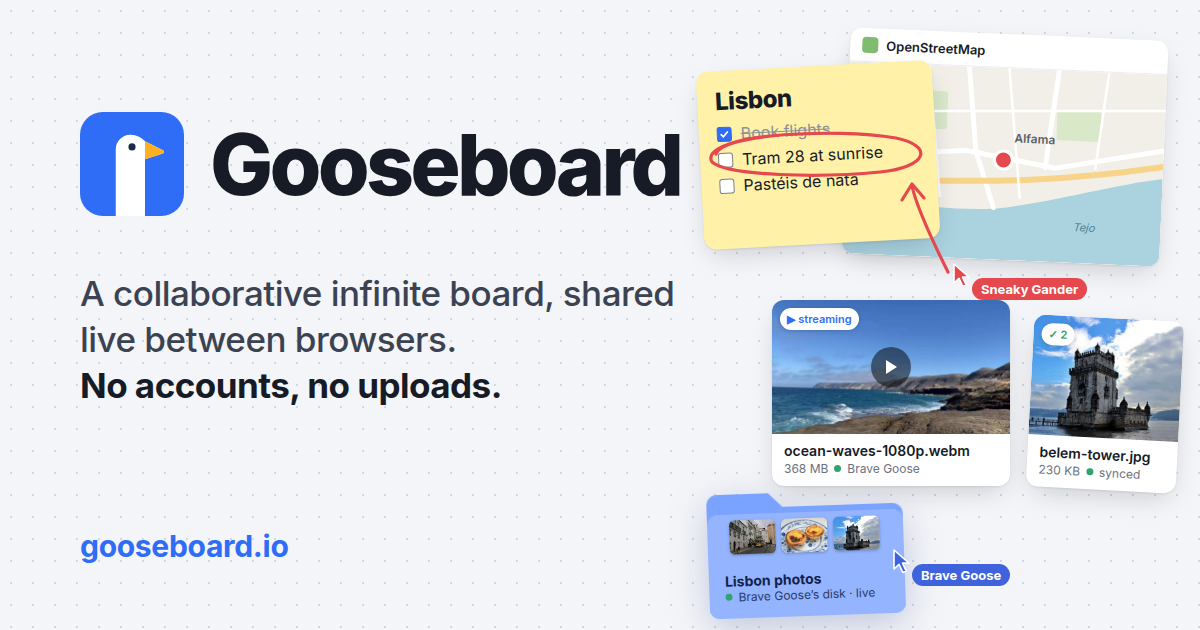
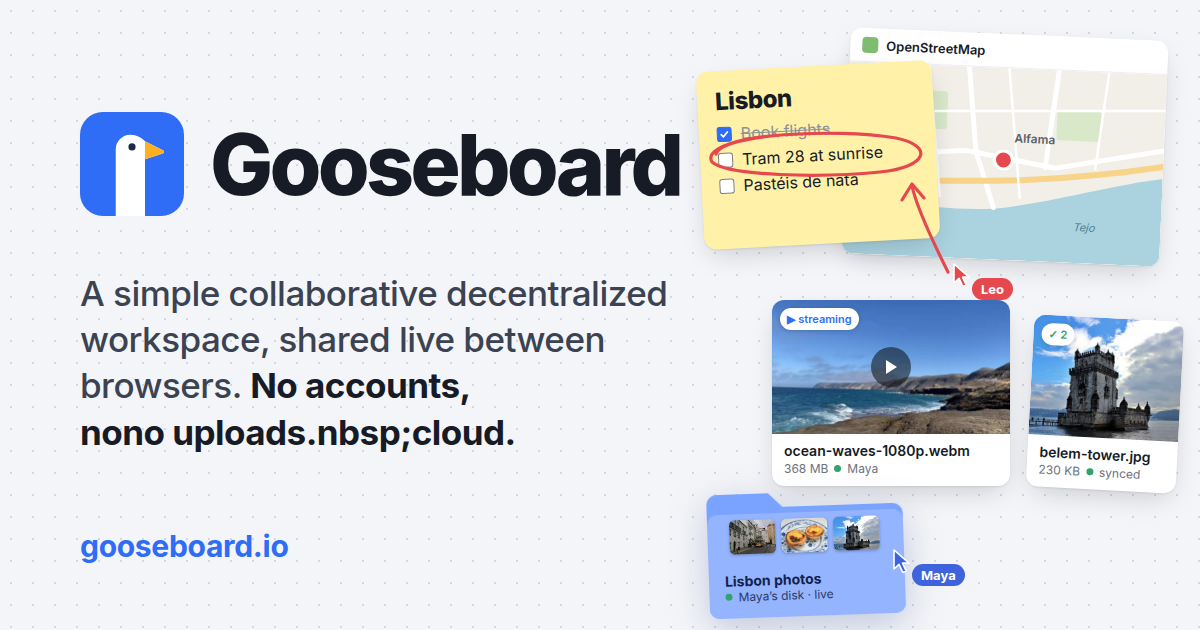
Tagline: a simple collaborative decentralized workspace
- README, home page, meta descriptions, manifest and JSON-LD use the new line
- <title> is just Gooseboard
- OG image: new tagline, "No accounts, no cloud.", and the trailer's names (Maya, Leo)

Claude-Session: https://claude.ai/code/session_01C5qAqHzn2RgLWYXcdWrTDG

diff --git a/index.html b/index.html
@@ -3,8 +3,8 @@
   <head>
     <meta charset="UTF-8" />
     <meta name="viewport" content="width=device-width, initial-scale=1, maximum-scale=1, user-scalable=no, viewport-fit=cover" />
-    <title>Gooseboard: a collaborative decentralized board</title>
-    <meta name="description" content="Notes, ink, files and folders on a collaborative decentralized board, shared live between browsers. No accounts, no cloud." />
+    <title>Gooseboard</title>
+    <meta name="description" content="Notes, ink, files and folders in a simple collaborative decentralized workspace, shared live between browsers. No accounts, no cloud." />
     <link rel="canonical" href="https://gooseboard.io/" />
 
     <link rel="icon" type="image/svg+xml" href="%BASE_URL%favicon.svg" />
@@ -16,14 +16,14 @@
     <meta property="og:type" content="website" />
     <meta property="og:site_name" content="Gooseboard" />
     <meta property="og:url" content="https://gooseboard.io/" />
-    <meta property="og:title" content="Gooseboard: a collaborative decentralized board" />
+    <meta property="og:title" content="Gooseboard: a simple collaborative decentralized workspace" />
     <meta property="og:description" content="Notes, ink, files and folders, shared live between browsers. No accounts, no cloud." />
     <meta property="og:image" content="https://gooseboard.io/og.png" />
     <meta property="og:image:width" content="1200" />
     <meta property="og:image:height" content="630" />
     <meta property="og:image:alt" content="Gooseboard logo beside a shared board: a checklist note with ink, a map embed, a streaming video, a synced photo, a live folder and two named cursors" />
     <meta name="twitter:card" content="summary_large_image" />
-    <meta name="twitter:title" content="Gooseboard: a collaborative decentralized board" />
+    <meta name="twitter:title" content="Gooseboard: a simple collaborative decentralized workspace" />
     <meta name="twitter:description" content="Notes, ink, files and folders, shared live between browsers. No accounts, no cloud." />
     <meta name="twitter:image" content="https://gooseboard.io/og.png" />
 
@@ -33,7 +33,7 @@
         "@type": "WebApplication",
         "name": "Gooseboard",
         "url": "https://gooseboard.io/",
-        "description": "A collaborative decentralized board for notes, ink, files and folders, shared live peer-to-peer between browsers. No accounts, no cloud.",
+        "description": "A simple collaborative decentralized workspace for notes, ink, files and folders, shared live peer-to-peer between browsers. No accounts, no cloud.",
         "applicationCategory": "ProductivityApplication",
         "operatingSystem": "Any",
         "browserRequirements": "Requires a modern browser with WebRTC",

diff --git a/src/pages/Home.tsx b/src/pages/Home.tsx
@@ -100,7 +100,7 @@ export default function Home() {
         <img src={`${import.meta.env.BASE_URL}favicon.svg`} width={44} height={44} alt="" />
         <div>
           <h1>Gooseboard</h1>
-          <p>A collaborative decentralized board. Notes, ink, files and folders, shared live between browsers. No accounts, no cloud.</p>
+          <p>A simple collaborative decentralized workspace. Notes, ink, files and folders, shared live between browsers. No accounts, no cloud.</p>
         </div>
         <button className={s.theme} onClick={theme.toggle} title={theme.dark ? 'Switch to light theme' : 'Switch to dark theme'}>
           <Icon name={theme.dark ? 'moon' : 'sun'} size={18} />

diff --git a/README.md b/README.md
@@ -1,6 +1,6 @@
 # Gooseboard
 
-A collaborative, decentralized board for notes, ink, files and folders, shared live between browsers. No accounts, no cloud: open [gooseboard.io](https://gooseboard.io), share the link, and everyone with it edits the same board in real time, peer to peer.
+A simple collaborative decentralized workspace for notes, ink, files and folders, shared live between browsers. No accounts, no cloud: open [gooseboard.io](https://gooseboard.io), share the link, and everyone with it edits the same board in real time, peer to peer.
 
 ## Features
 
